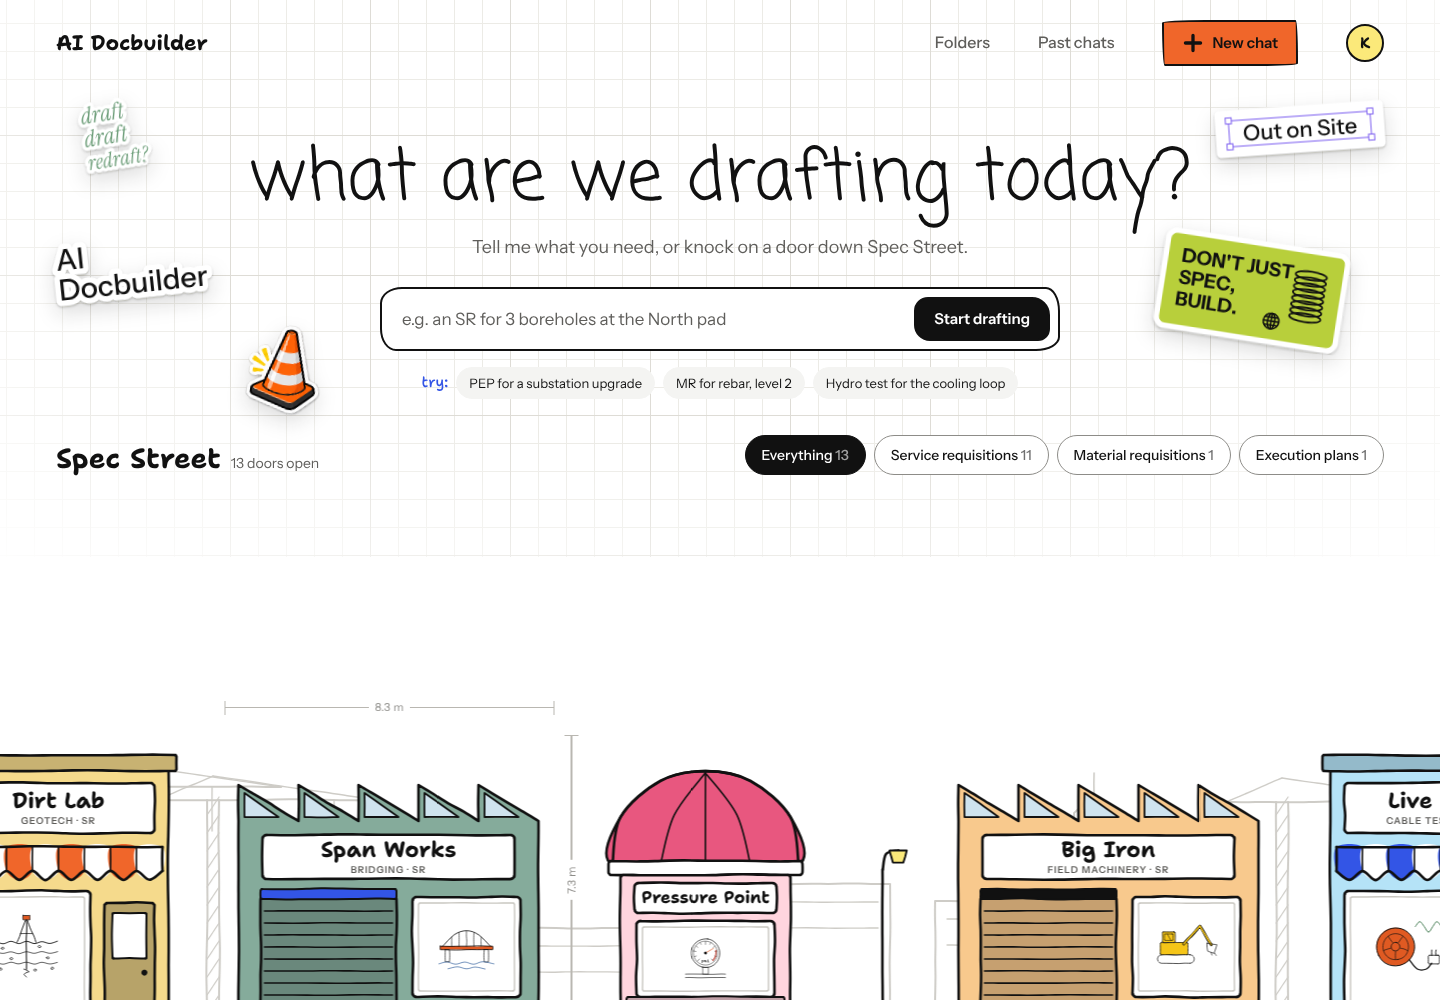
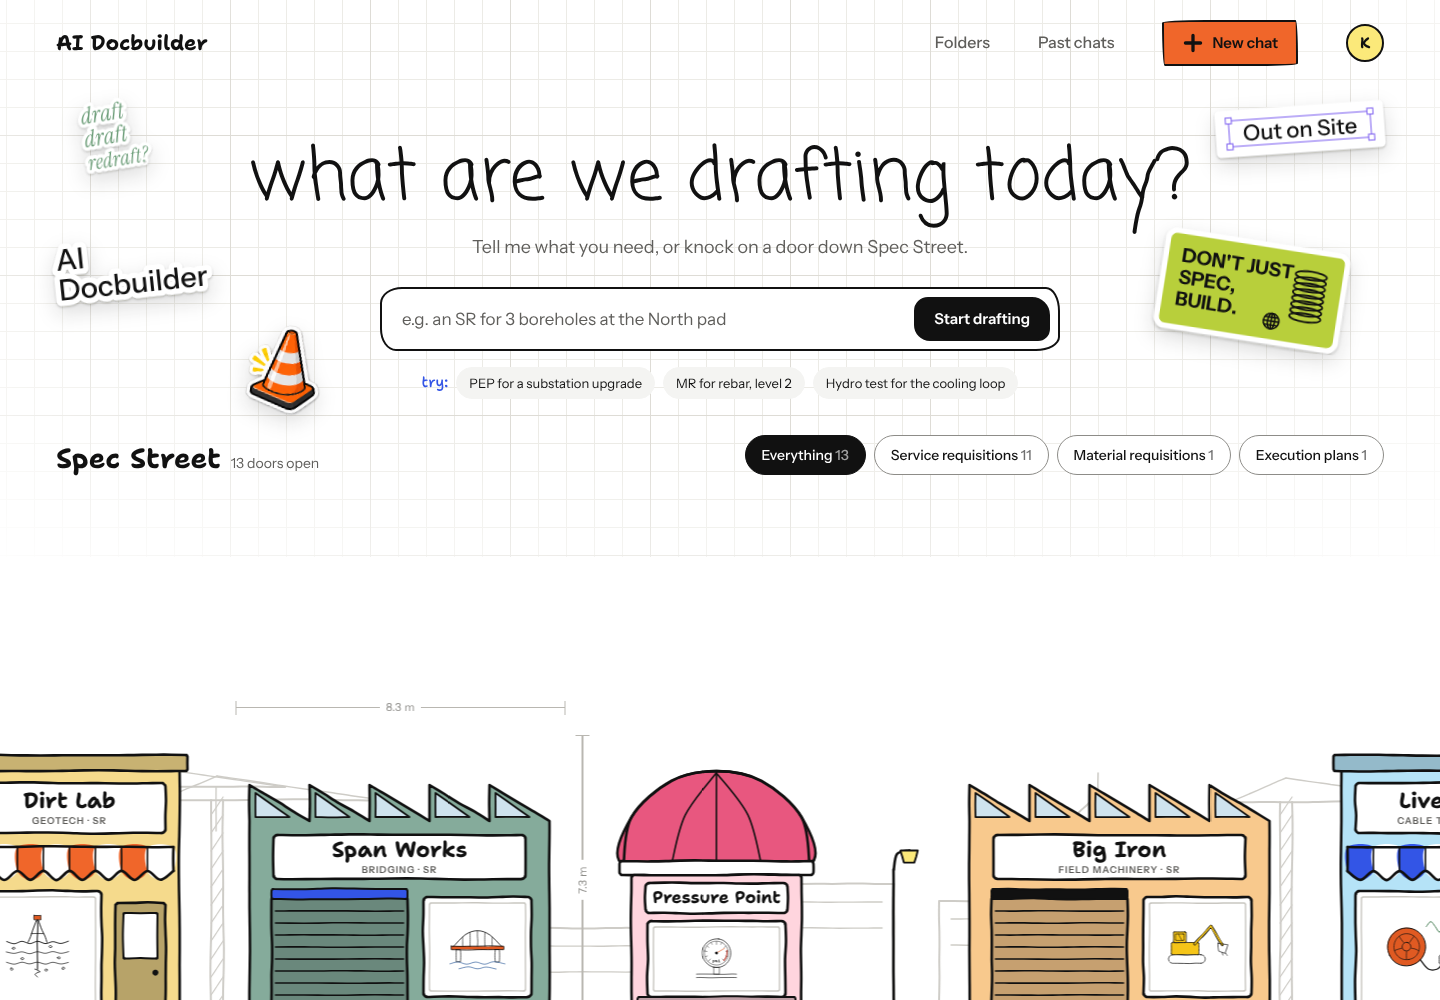
Spec Street: coming soon lots for SRQ, bid period, TBE, SRP, appendices, agile data entry

Changed region(s): [[0.0, 0.744, 1.0, 1.0]]

diff --git a/app/src/screens/street/street.css b/app/src/screens/street/street.css
@@ -109,3 +109,25 @@
   .st-sticker--mobile:nth-child(5) { left: -10px !important; top: auto !important; bottom: -20px; width: 54px !important; }
 }
 @media (prefers-reduced-motion: reduce) { .st-sticker { animation: none; } }
+
+/* ---------- coming soon lots ---------- */
+.st-soon { padding: 56px clamp(20px, 4vw, 56px) 8px; }
+.st-soon__head { position: relative; display: flex; align-items: baseline; flex-wrap: wrap; gap: 6px 16px; margin-bottom: 22px; }
+.st-soon__title { margin: 0; font: 400 clamp(30px, 3.4vw, 40px)/1.1 var(--font-display); }
+.st-soon__sub { margin: 0; font: 500 17px/22px var(--font-hand); color: var(--blue); }
+.st-soon__tape { position: absolute; right: 0; top: -18px; width: 220px; height: auto; rotate: 3deg; pointer-events: none; filter: drop-shadow(0 6px 8px rgba(17,17,17,.12)); }
+.st-soon__lots { list-style: none; margin: 0; padding: 0; display: grid; grid-template-columns: repeat(3, 1fr); gap: 18px; }
+.st-lot { position: relative; display: flex; flex-direction: column; gap: 6px; min-height: 150px; padding: 18px 18px 16px;
+  background: repeating-linear-gradient(-45deg, transparent 0 10px, rgba(17,17,17,.025) 10px 11px), var(--paper);
+  border: 1.5px dashed var(--pencil); border-radius: 6px 10px 7px 11px; transition: border-color 160ms ease, translate 240ms var(--ease-slap); }
+.st-lot:hover { border-color: var(--ink); translate: 0 -3px; }
+.st-lot__top { display: flex; justify-content: space-between; align-items: center; min-height: 26px; }
+.st-lot__code { font: 700 12px/1 var(--font-sans); letter-spacing: .06em; padding: 5px 8px; border: 1.5px solid var(--ink); border-radius: 4px; background: var(--sticky-yellow); }
+.st-lot__name { margin: 4px 0 0; font: 700 20px/24px var(--font-hand); }
+.st-lot__line { margin: 0; font-size: 14px; line-height: 20px; color: var(--ink-muted); }
+.st-lot__stamp { rotate: 4deg; font: 700 10px/1 var(--font-sans); letter-spacing: .1em; text-transform: uppercase;
+  color: var(--safety); border: 2px solid var(--safety); outline: 1px solid var(--safety); outline-offset: -5px; border-radius: 4px; padding: 6px 8px;
+  -webkit-mask-image: var(--db-grunge); mask-image: var(--db-grunge); mask-size: 240px 240px; }
+@media (max-width: 640px) { .st-soon__tape { width: 140px; top: -30px; } .st-soon__lots { grid-template-columns: 1fr 1fr; gap: 12px; } .st-lot { min-height: 0; } }
+@media (max-width: 900px) and (min-width: 641px) { .st-soon__lots { grid-template-columns: 1fr 1fr; } }
+@media (max-width: 420px) { .st-soon__lots { grid-template-columns: 1fr; } }

diff --git a/app/src/screens/street/ComingSoon.tsx b/app/src/screens/street/ComingSoon.tsx
@@ -1,0 +1,39 @@
+/**
+ * "Coming soon" lots on Spec Street: the next things Docbuilder will help with.
+ * Display only for now. When one ships, move it into the street as a real door.
+ */
+type Lot = { code?: string; name: string; line: string };
+
+const LOTS: Lot[] = [
+  { code: "SRQ", name: "SR for quote", line: "Turn a finished SR into a bid package: instructions, pricing schedule, closing date." },
+  { name: "Bid period support", line: "Log bidder questions, draft answers and addenda, keep every bidder on the same page." },
+  { code: "TBE", name: "Technical bid evaluation", line: "Check every bid against every requirement, with the page it came from." },
+  { code: "SRP", name: "SR conformed for award", line: "Fold in addenda and agreed deviations, then lock the award version." },
+  { name: "Appendices", line: "See what's missing, number the attachments, keep every cross-reference right." },
+  { name: "Agile data entry", line: "Answer click by click. Smart options, fill from files, keyboard first." },
+];
+
+export function ComingSoon() {
+  return (
+    <section className="st-soon" aria-labelledby="st-soon-title">
+      <div className="st-soon__head">
+        <h2 id="st-soon-title" className="st-soon__title">next up on Spec Street</h2>
+        <p className="st-soon__sub">Lots are marked out. These are coming soon.</p>
+        <img className="st-soon__tape" src="/assets/hazard-tape.svg" alt="" aria-hidden="true" />
+      </div>
+      <ul className="st-soon__lots">
+        {LOTS.map((l, i) => (
+          <li key={l.name} className="st-lot" style={{ rotate: `${[-0.8, 0.6, -0.4, 0.9, -0.7, 0.5][i]}deg` }}>
+            <div className="st-lot__top">
+              {l.code ? <span className="st-lot__code">{l.code}</span> : <span />}
+              <span className="st-lot__stamp" aria-hidden="true">coming soon</span>
+            </div>
+            <h3 className="st-lot__name">{l.name}</h3>
+            <p className="st-lot__line">{l.line}</p>
+            <span className="sr-only">Coming soon.</span>
+          </li>
+        ))}
+      </ul>
+    </section>
+  );
+}

diff --git a/app/src/screens/street/StreetScreen.tsx b/app/src/screens/street/StreetScreen.tsx
@@ -1,4 +1,5 @@
 import { HeroStickers } from "./HeroStickers";
+import { ComingSoon } from "./ComingSoon";
 import { useId, useMemo, useState, type CSSProperties, type FormEvent } from "react";
 import { AppHeader } from "../../components/AppHeader";
 import { linkTo, navigate } from "../../lib/router";
@@ -106,6 +107,8 @@ export default function StreetScreen() {
         </div>
         <div className="st-kerb" aria-hidden="true" />
       </section>
+
+      <ComingSoon />
 
       <footer className="st-foot">
         <span>Hover the street to stop it. Drafts save as you go.</span>

diff --git a/HANDOFF.md b/HANDOFF.md
@@ -14,7 +14,7 @@ Read this first if you're picking up the front end. Everything you need is in th
 
 | Route | Screen | Folder |
 |---|---|---|
-| `/` | Spec Street: hero, input, stickers, endless street of doc-type doors | `src/screens/street/` |
+| `/` | Spec Street: hero, input, stickers, endless street of doc-type doors, "next up" coming-soon lots | `src/screens/street/` |
 | `/chat` | Guided SR chat → live drafting → flip-book reveal | `src/screens/chat/` |
 | `/canvas` | Markup canvas for the drafted doc | `src/screens/canvas/` |
 | `/folders` | Frosted pastel folders, opened folder view | `src/screens/folders/` |
@@ -106,6 +106,12 @@ Full brand book: `design-system/README.md`. The short version:
 - `screens/` holds the original Claude Design artboards (spec reference) plus `assets/`.
 - `generators/` has the scripts that drew the stickers, buildings and street.
 - `screenshots/` is regenerated with `cd app && npm run build && npm run shots` (needs Chromium; set `CHROME=/path`).
+
+## Roadmap shown on the main screen
+
+`src/screens/street/ComingSoon.tsx` lists what's next as "coming soon" lots (display only, no logic):
+SRQ (SR for quote), bid period support, TBE (technical bid evaluation), SRP (SR conformed for award),
+appendices, and agile click-by-click data entry. When one ships, remove it from `LOTS` and add it as a real door or flow.
 
 ## Not done yet / honest gaps
 
